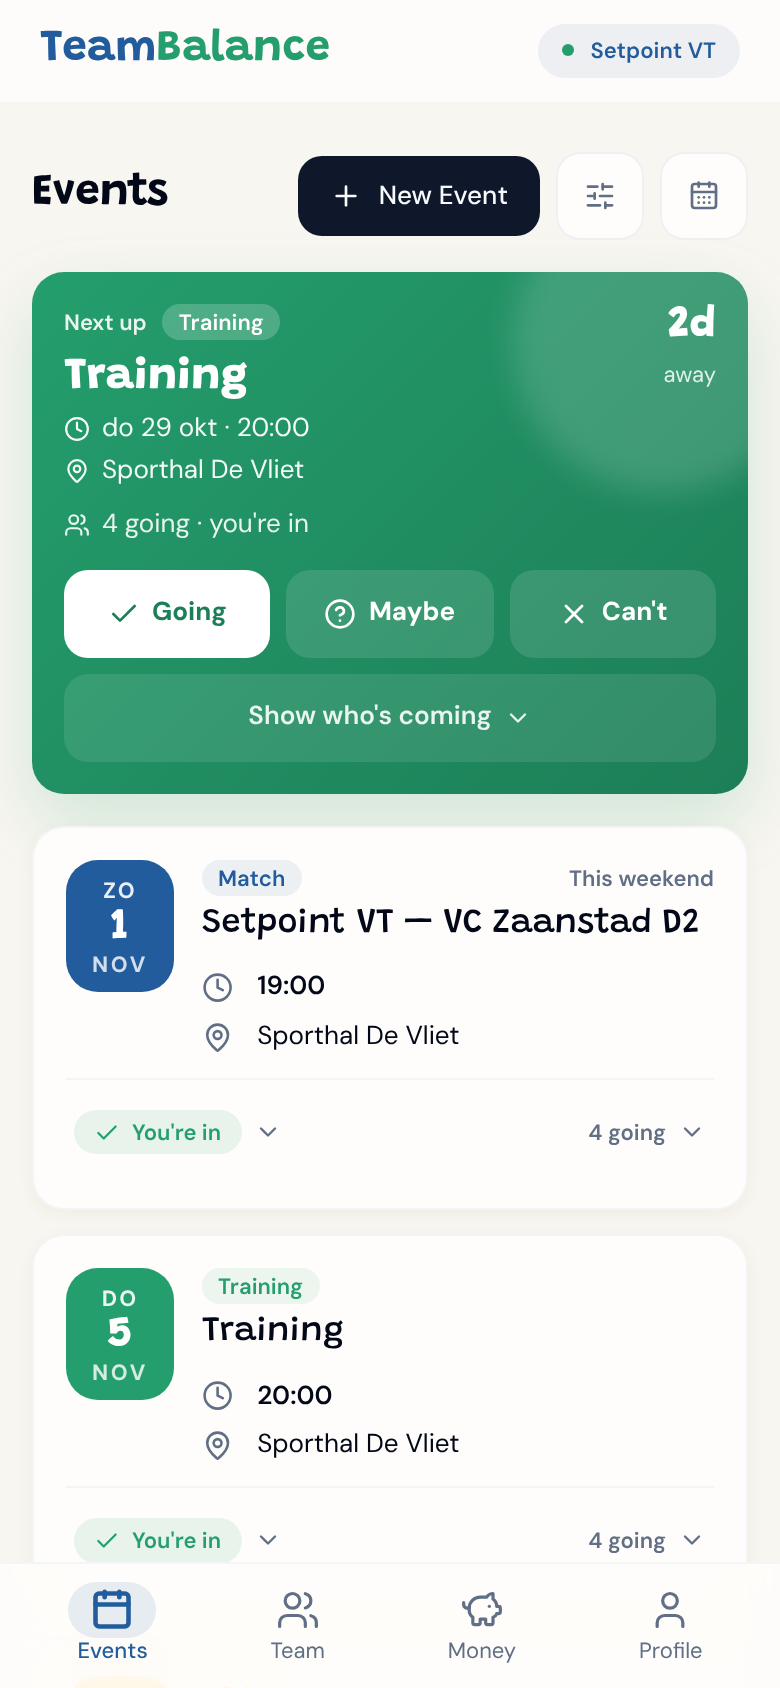
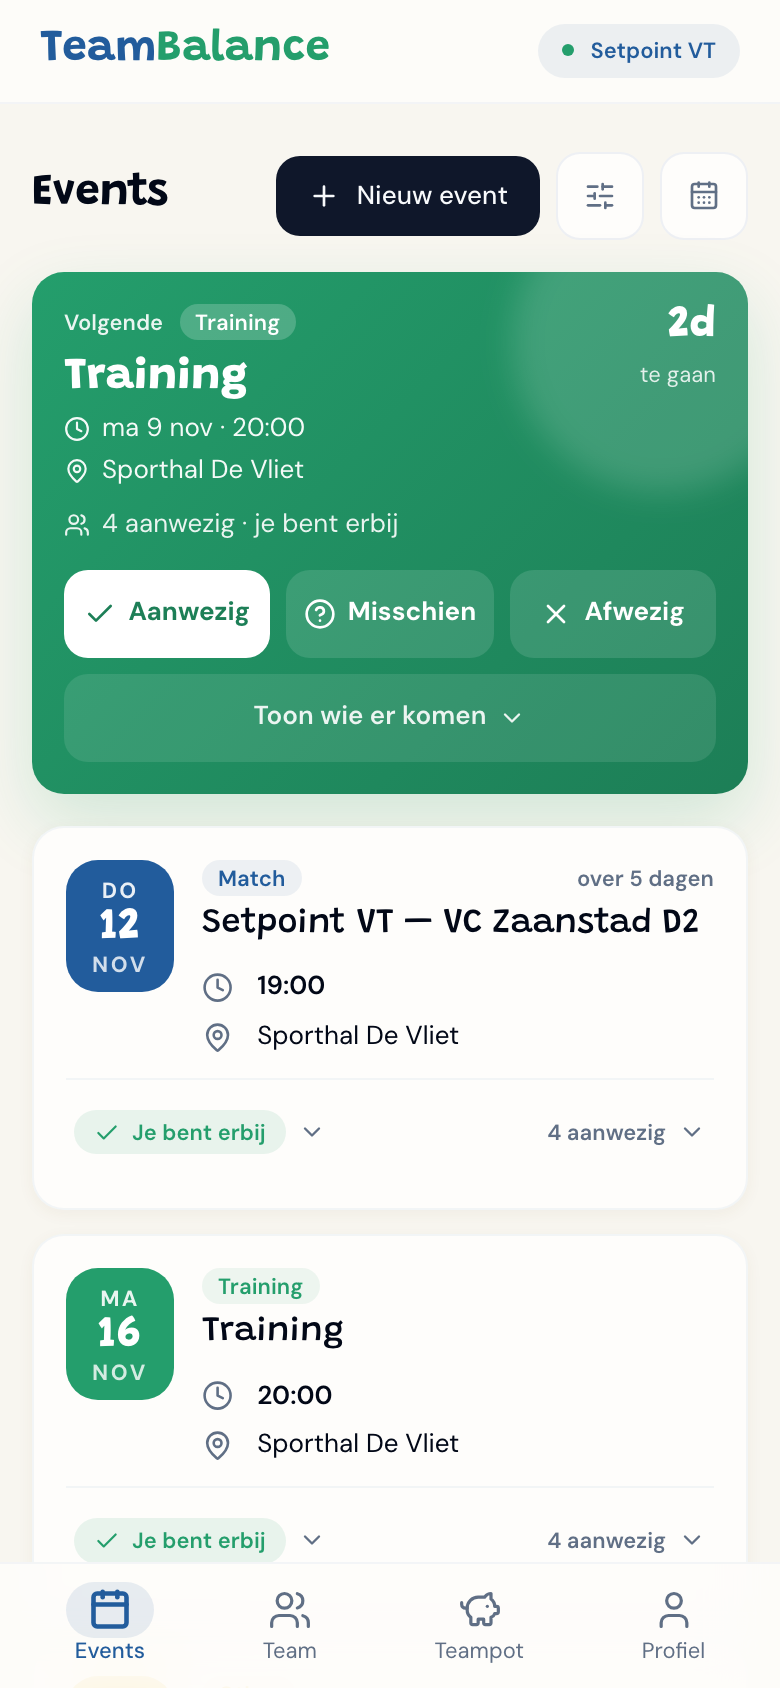
feat(app): Dutch page baselines and a Dutch install manifest (#464)
Ports the two parts of #473/#475 that #496 does not cover:
- Dutch Chromatic baselines (xsNl) on the Event detail, Money and Team Data stories, with a Dutch branch in each play. With Events and Account that makes the five page baselines decided on the issue.
- The web manifest in Dutch (lang, description, screenshot labels) and the install screenshots retaken in Dutch: the install dialog is read before any user language is known.

diff --git a/app/src/pages/money/ui/MoneyPageView.stories.tsx b/app/src/pages/money/ui/MoneyPageView.stories.tsx
@@ -1,11 +1,11 @@
 import type { Meta, StoryObj } from '@storybook/react-vite'
-import { expect, fn } from 'storybook/test'
+import { expect, fn, within } from 'storybook/test'
 import { ReceiptButtonView } from '@features/attach-receipt/ui/ReceiptButtonView'
 import { RECEIPT_IMAGE } from '@features/attach-receipt/ui/receipt-image.fixture'
 import { Button } from '@shared/ui/button'
 import { MoneyPoolView } from '@widgets/money-pool/ui/MoneyPoolView'
 import { appShell } from '../../../../storybook-support/app-shell-decorator'
-import { pageModes } from '../../../../.storybook/modes'
+import { dutchMode, pageModes } from '../../../../.storybook/modes'
 import { MoneyPageView } from './MoneyPageView'
 
 // The money page as a phone shows it (ADR-0032 §3): the title over the connected pool with its Top up button, inside the
@@ -56,8 +56,18 @@ export default meta
 type Story = StoryObj<typeof meta>
 
 export const Data: Story = {
-  parameters: { chromatic: { modes: pageModes } },
-  play: async ({ canvas }) => {
+  // Plus the Dutch picture (ADR-0043 §8): Dutch separators in the amounts and dates.
+  parameters: { chromatic: { modes: { ...pageModes, ...dutchMode } } },
+  play: async ({ canvas, globals }) => {
+    // Chromatic runs this play in every mode. In the Dutch one it proves the translated screen (#464).
+    if (globals.locale === 'nl') {
+      await expect(canvas.getByRole('heading', { name: 'Teampot' })).toBeInTheDocument()
+      await expect(within(canvas.getByRole('region', { name: 'Saldo' })).getByText(/187,50/)).toBeInTheDocument()
+      await expect(within(canvas.getByRole('region', { name: 'Biermeter' })).getByText('69 biertjes')).toBeInTheDocument()
+      await expect(canvas.getByRole('button', { name: 'Bonnetje voor Sporthal De Kuil' })).toBeInTheDocument()
+      await expect(canvas.getByRole('link', { name: 'Teampot' })).toHaveAttribute('aria-current', 'page')
+      return
+    }
     await expect(canvas.getByRole('heading', { name: 'Money' })).toBeInTheDocument()
     await expect(canvas.getByText('Lisa de Vries')).toBeInTheDocument()
     await expect(canvas.getByText('69 beers')).toBeInTheDocument()

diff --git a/app/src/pages/event-detail/ui/EventDetailView.stories.tsx b/app/src/pages/event-detail/ui/EventDetailView.stories.tsx
@@ -9,7 +9,7 @@ import { appColumn } from '@shared/testing/app-column-decorator'
 import { withRouter } from '@shared/testing/router-decorator'
 import { buildSeriesPeek } from '@entities/event/lib/series-peek'
 import { appShell, SHELL_ROUTES } from '../../../../storybook-support/app-shell-decorator'
-import { pageModes } from '../../../../.storybook/modes'
+import { dutchMode, pageModes } from '../../../../.storybook/modes'
 import { EventDetailView } from './EventDetailView'
 
 // The event-detail page as a phone shows it (ADR-0032 §3): sticky sub-header, the info card
@@ -124,9 +124,17 @@ type Story = StoryObj<typeof meta>
 
 export const Data: Story = {
   decorators: shell.decorators,
-  // The page's picture, in dark and once at desktop width too (ADR-0032 §4-§5).
-  parameters: { chromatic: { modes: pageModes } },
-  play: async ({ canvas }) => {
+  // The page's picture, in dark and once at desktop width too (ADR-0032 §4-§5), and in Dutch (ADR-0043 §8).
+  parameters: { chromatic: { modes: { ...pageModes, ...dutchMode } } },
+  play: async ({ canvas, globals }) => {
+    // Chromatic runs this play in every mode. In the Dutch one it proves the translated screen (#464).
+    if (globals.locale === 'nl') {
+      await expect(canvas.getByRole('link', { name: 'Terug naar events' })).toHaveAttribute('href', SHELL_ROUTES.events)
+      await expect(canvas.getByText('woensdag 12 augustus 2026')).toBeInTheDocument()
+      const mine = within(canvas.getByRole('group', { name: 'Jouw antwoord' }))
+      await expect(mine.getByRole('button', { name: 'Aanwezig' })).toHaveAttribute('aria-pressed', 'true')
+      return
+    }
     await expect(canvas.getByRole('link', { name: 'Back to events' })).toHaveAttribute('href', SHELL_ROUTES.events)
     await expect(canvas.getByRole('heading', { level: 1, name: 'Training — Court 2' })).toBeInTheDocument()
     await expect(canvas.getByRole('link', { name: /Sporthal De Toekomst/ })).toHaveAttribute(

diff --git a/app/src/pages/team/ui/TeamPageView.stories.tsx b/app/src/pages/team/ui/TeamPageView.stories.tsx
@@ -9,7 +9,7 @@ import { withRouter } from '@shared/testing/router-decorator'
 import { MemberRosterView } from '@features/manage-members/ui/MemberRosterView'
 import { ManageSubstitutesView } from '@features/manage-substitutes/ui/ManageSubstitutesView'
 import { appShell } from '../../../../storybook-support/app-shell-decorator'
-import { pageModes } from '../../../../.storybook/modes'
+import { dutchMode, pageModes } from '../../../../.storybook/modes'
 import { TeamPageView } from './TeamPageView'
 
 // The team page as a phone shows it (ADR-0032 §3): the header (title, invite action and settings
@@ -78,9 +78,16 @@ type Story = StoryObj<typeof meta>
 
 export const Data: Story = {
   decorators: shell.decorators,
-  // The page's picture, in dark and once at desktop width too (ADR-0032 §4-§5).
-  parameters: { chromatic: { modes: pageModes } },
-  play: async ({ canvas }) => {
+  // The page's picture, in dark and once at desktop width too (ADR-0032 §4-§5), and in Dutch (ADR-0043 §8).
+  parameters: { chromatic: { modes: { ...pageModes, ...dutchMode } } },
+  play: async ({ canvas, globals }) => {
+    // Chromatic runs this play in every mode. In the Dutch one it proves the translated screen (#464).
+    if (globals.locale === 'nl') {
+      await expect(canvas.getByRole('link', { name: 'Teaminstellingen' })).toHaveAttribute('href', '/t/setpoint-vt/team/settings')
+      await expect(canvas.getByRole('heading', { name: 'Leden' })).toBeInTheDocument()
+      await expect(canvas.getByRole('heading', { name: 'Invallers' })).toBeInTheDocument()
+      return
+    }
     await expect(canvas.getByRole('heading', { name: 'Team' })).toBeInTheDocument()
     await expect(canvas.getByRole('button', { name: 'Invite Link' })).toBeInTheDocument()
     await expect(canvas.getByRole('link', { name: 'Team settings' })).toHaveAttribute('href', '/t/setpoint-vt/team/settings')

diff --git a/app/src/app/pwa/manifest.ts b/app/src/app/pwa/manifest.ts
@@ -16,7 +16,9 @@ export const pwaManifest: Partial<ManifestOptions> = {
   id: '/',
   name: 'TeamBalance',
   short_name: 'TeamBalance',
-  description: 'Event attendance and shared money pool for sports teams.',
+  // One Dutch manifest (#464): read once at install time, before any user language is known.
+  lang: 'nl',
+  description: 'Aanwezigheid bij events en een gedeelde teampot voor sportteams.',
   start_url: '/',
   scope: '/',
   display: 'standalone',
@@ -51,14 +53,14 @@ export const pwaManifest: Partial<ManifestOptions> = {
       sizes: '780x1688',
       type: 'image/png',
       form_factor: 'narrow',
-      label: 'Upcoming events with who is coming',
+      label: 'Komende events en wie er komen',
     },
     {
       src: 'screenshots/events-wide.png',
       sizes: '2560x1600',
       type: 'image/png',
       form_factor: 'wide',
-      label: 'Upcoming events with who is coming',
+      label: 'Komende events en wie er komen',
     },
   ],
   // Long-press / right-click quick actions on the installed icon. Every team screen lives under

diff --git a/app/src/app/pwa/manifest.test.ts b/app/src/app/pwa/manifest.test.ts
@@ -27,6 +27,16 @@ describe('pwaManifest', () => {
     })
   })
 
+  // One Dutch manifest (#464): the install dialog is read once, before any user language is known.
+  it('speaks Dutch, description and screenshot labels included', () => {
+    expect(pwaManifest.lang).toBe('nl')
+    expect(pwaManifest.description).toBe('Aanwezigheid bij events en een gedeelde teampot voor sportteams.')
+    expect((pwaManifest.screenshots ?? []).map((shot) => shot.label)).toEqual([
+      'Komende events en wie er komen',
+      'Komende events en wie er komen',
+    ])
+  })
+
   it('paints the shell with the background design token', () => {
     const tokens = readFileSync(resolve(appRoot, '../design-tokens/tokens.css'), 'utf8')
     const background = tokens.match(/--color-background:\s*(#[0-9A-Fa-f]{6})/)?.[1]
